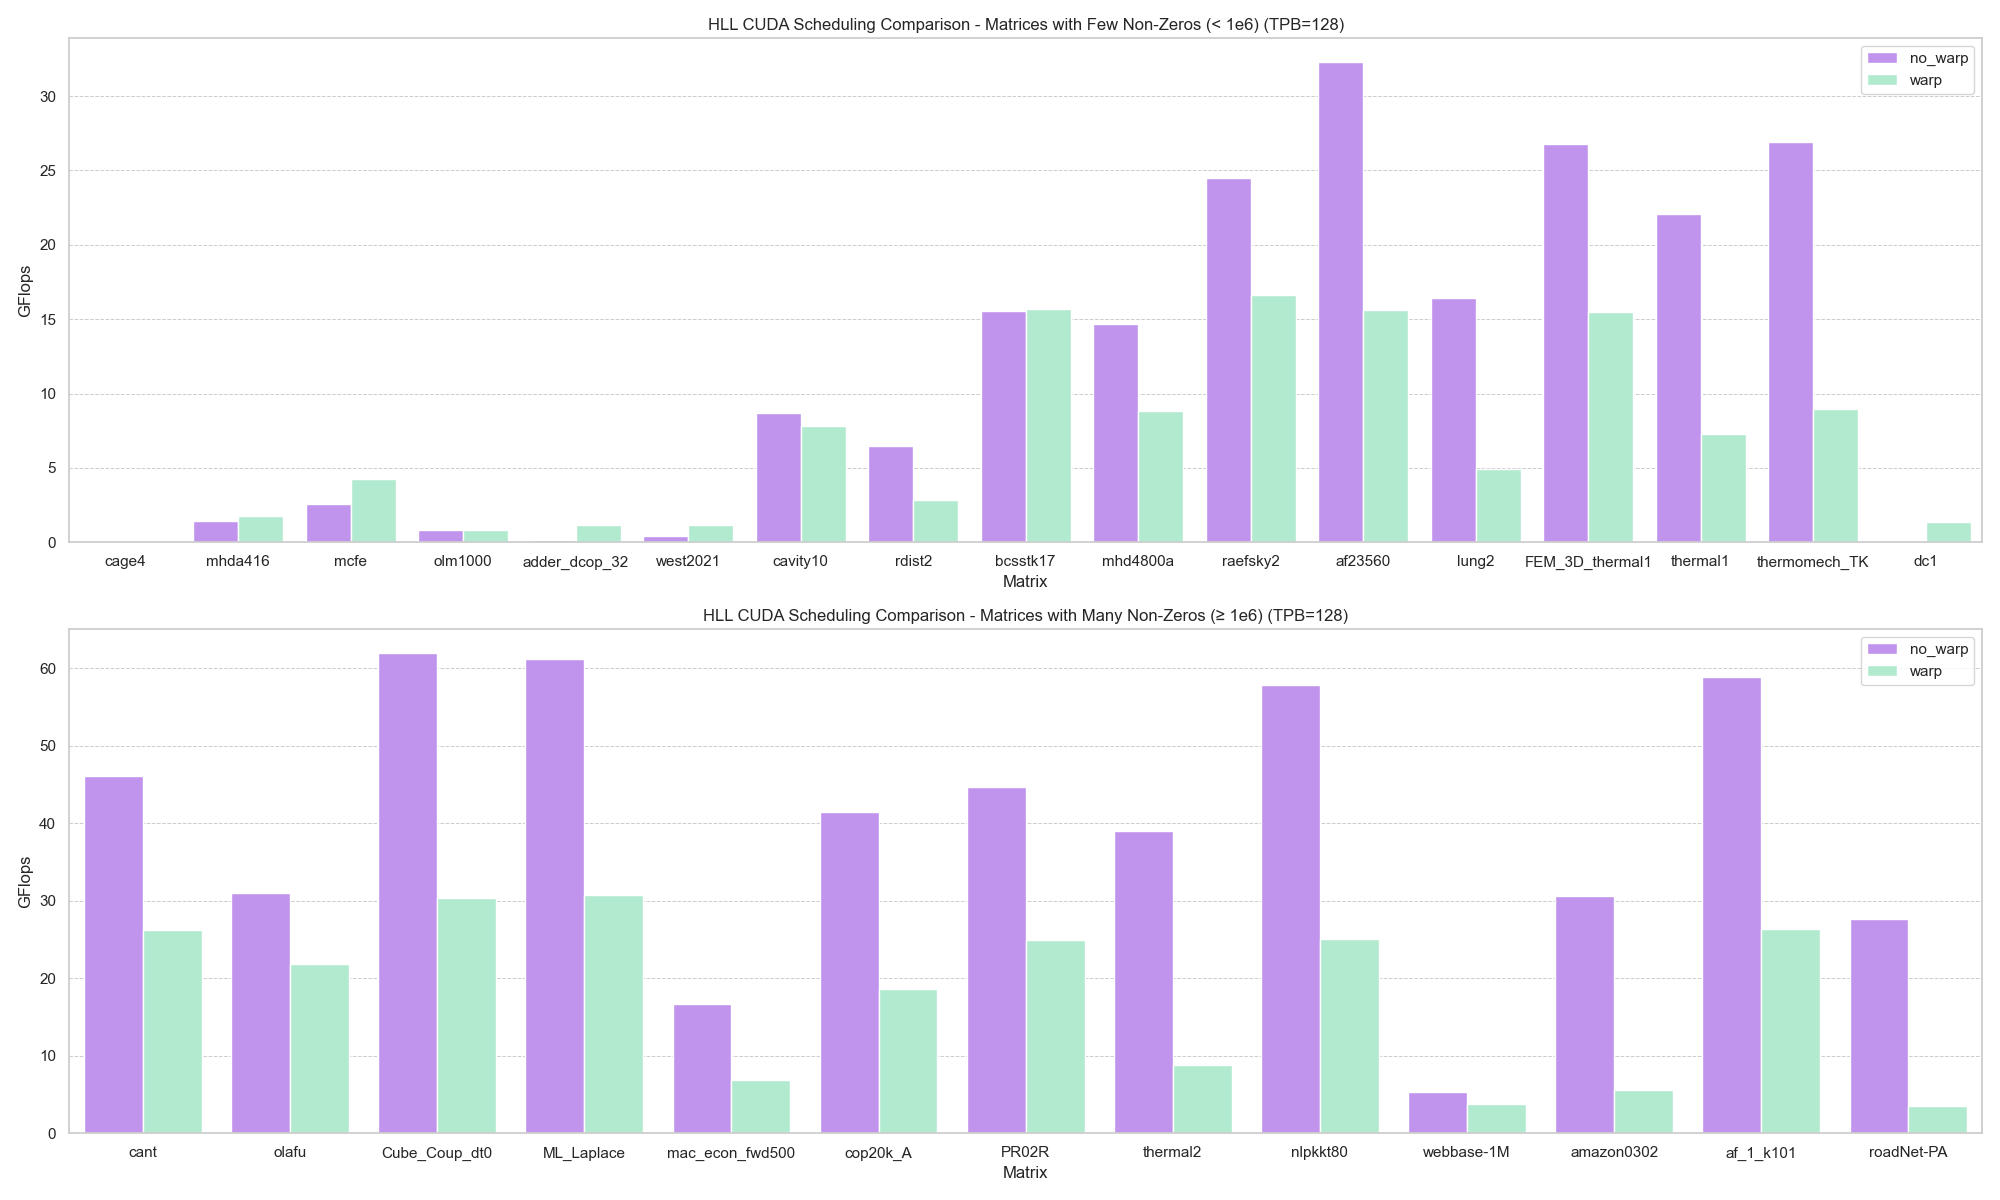
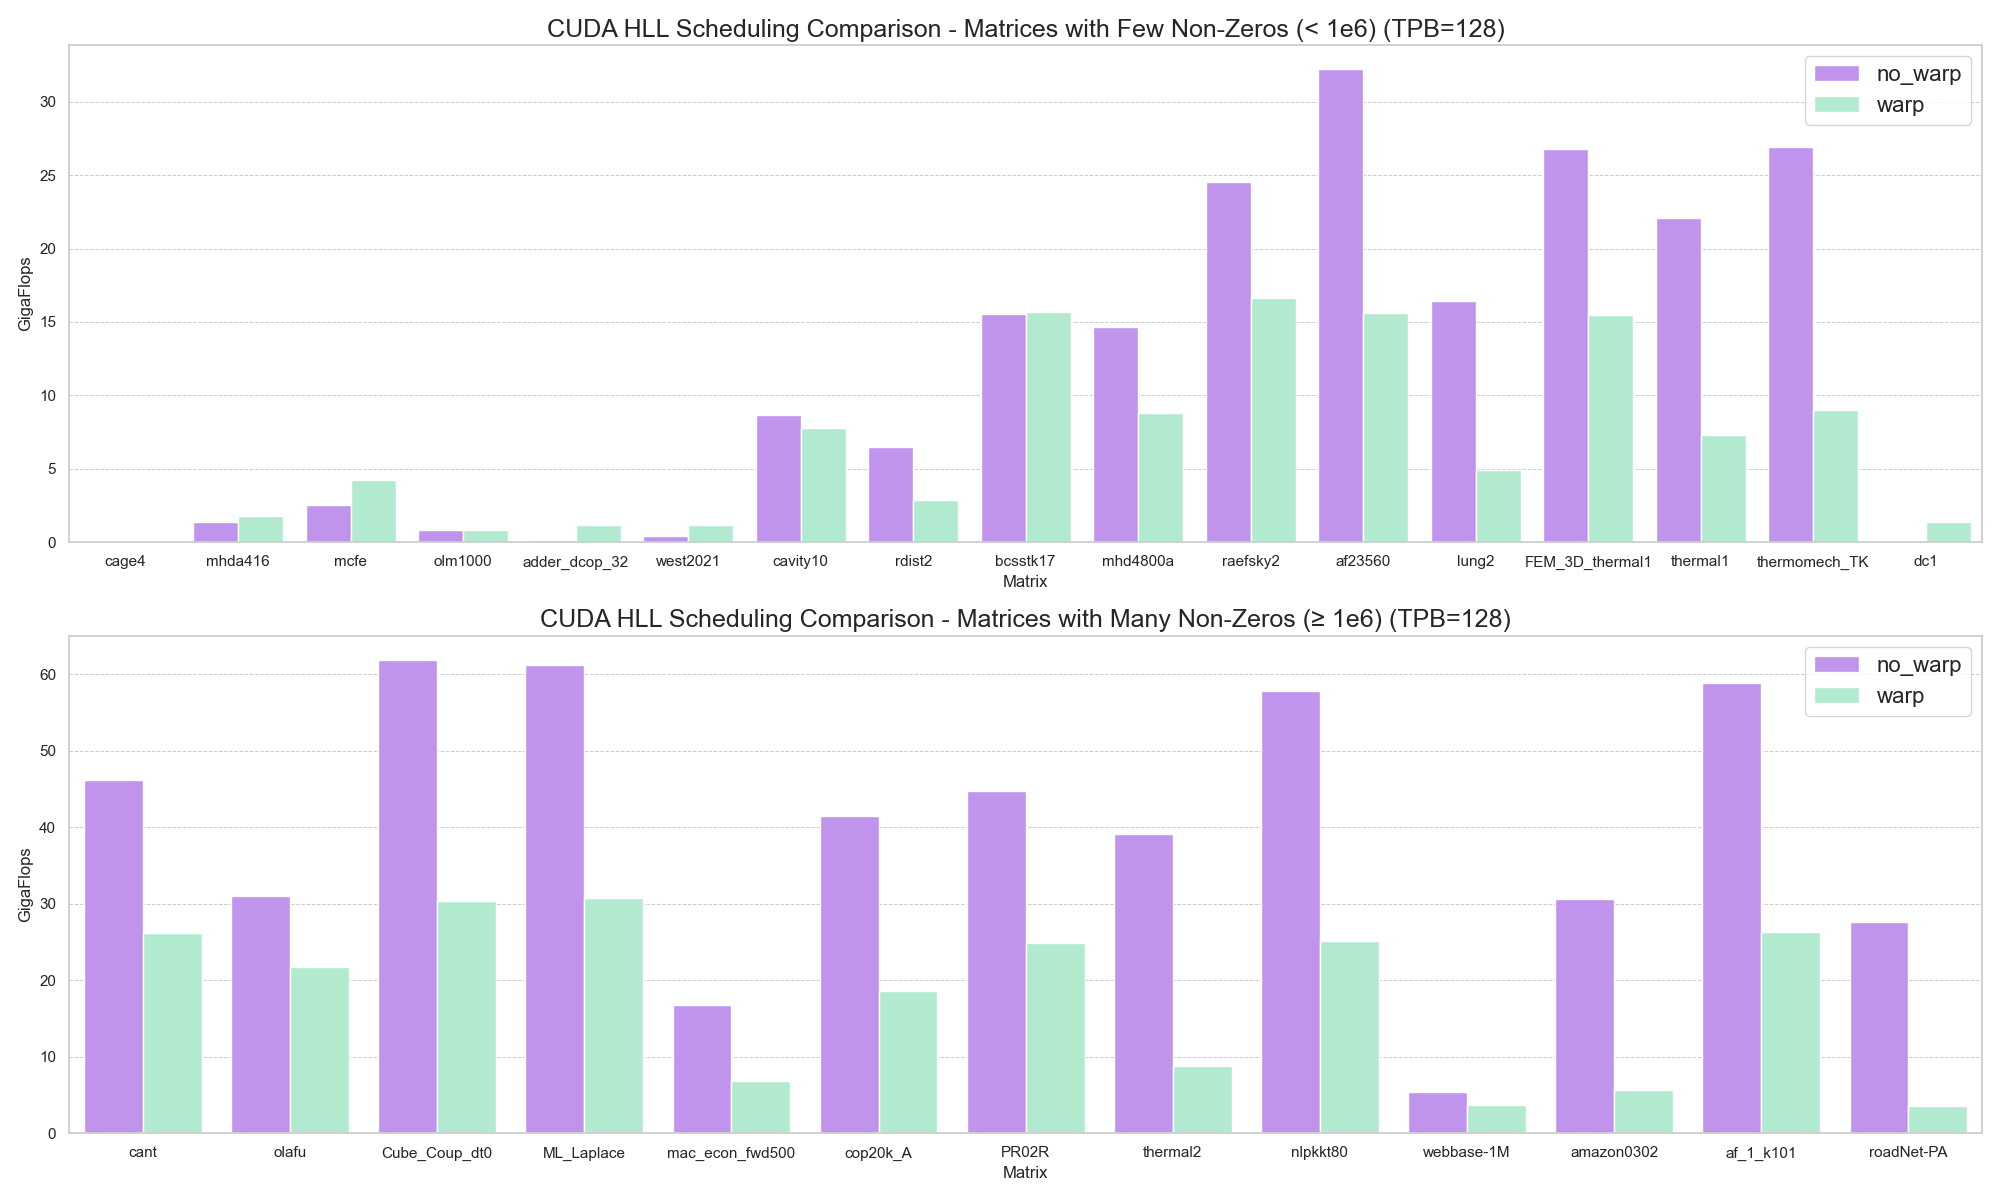
modifica funzioni plot grafici

diff --git a/results/openmp_threads_speedup_efficiency.py b/results/openmp_threads_speedup_efficiency.py
@@ -47,17 +47,17 @@ def plot_speedup(df_few, df_many, algo_type, save_path):
 
     # Plot for sparse matrices
     sns.lineplot(data=df_few, x='nThreads', y=y_col, hue='matrix', marker='o', ax=axs[0])
-    axs[0].set_title(f"{algo_type.upper()} Threads Speedup - Matrices with Few Non-Zeros (< 1e6)")
+    axs[0].set_title(f"OpenMP {algo_type.upper()} Threads Speedup - Matrices with Few Non-Zeros (< 1e6)", fontsize = 15)
     axs[0].set_xlabel("Number of Threads")
     axs[0].set_ylabel("Speedup")
-    axs[0].legend(loc='upper left', bbox_to_anchor=(1.05, 1))
+    axs[0].legend(loc='upper left', bbox_to_anchor=(1.05, 1), fontsize=13, title_fontsize=14)
 
     # Plot for dense matrices
     sns.lineplot(data=df_many, x='nThreads', y=y_col, hue='matrix', marker='o', ax=axs[1])
-    axs[1].set_title(f"{algo_type.upper()} Threads Speedup - Matrices with Many Non-Zeros (≥ 1e6)")
+    axs[1].set_title(f"OpenMP {algo_type.upper()} Threads Speedup - Matrices with Many Non-Zeros (≥ 1e6)", fontsize = 15)
     axs[1].set_xlabel("Number of Threads")
     axs[1].set_ylabel("Speedup")
-    axs[1].legend(loc='upper left', bbox_to_anchor=(1.05, 1))
+    axs[1].legend(loc='upper left', bbox_to_anchor=(1.05, 1), fontsize=13, title_fontsize=14)
 
     # Adjust layout and save to file
     plt.tight_layout()
@@ -78,18 +78,18 @@ def plot_efficiency(df_few, df_many, algo_type, save_path):
     # Plot for sparse matrices
     sns.lineplot(data=df_few, x='nThreads', y=eff_col, hue='matrix', marker='o', ax=axs[0])
     axs[0].axhline(1.0, color='gray', linestyle='--', linewidth=1)  # Reference line at ideal efficiency
-    axs[0].set_title(f"{algo_type.upper()} Threads Efficiency - Matrices with Few Non-Zeros (< 1e6)")
+    axs[0].set_title(f"OpenMP {algo_type.upper()} Threads Efficiency - Matrices with Few Non-Zeros (< 1e6)", fontsize = 15)
     axs[0].set_xlabel("Number of Threads")
     axs[0].set_ylabel("Efficiency")
-    axs[0].legend(loc='upper left', bbox_to_anchor=(1.05, 1))
+    axs[0].legend(loc='upper left', bbox_to_anchor=(1.05, 1), fontsize=13, title_fontsize=14)
 
     # Plot for dense matrices
     sns.lineplot(data=df_many, x='nThreads', y=eff_col, hue='matrix', marker='o', ax=axs[1])
     axs[1].axhline(1.0, color='gray', linestyle='--', linewidth=1)  # Reference line at ideal efficiency
-    axs[1].set_title(f"{algo_type.upper()} Threads Efficiency - Matrices with Many Non-Zeros (≥ 1e6)")
+    axs[1].set_title(f"OpenMP {algo_type.upper()} Threads Efficiency - Matrices with Many Non-Zeros (≥ 1e6)", fontsize = 15)
     axs[1].set_xlabel("Number of Threads")
     axs[1].set_ylabel("Efficiency")
-    axs[1].legend(loc='upper left', bbox_to_anchor=(1.05, 1))
+    axs[1].legend(loc='upper left', bbox_to_anchor=(1.05, 1), fontsize=13, title_fontsize=14)
 
     # Adjust layout and save to file
     plt.tight_layout()

diff --git a/results/cuda_csr_hll_gflops.py b/results/cuda_csr_hll_gflops.py
@@ -24,25 +24,27 @@ def plot_bar_comparison(save_path, csv_path, nz_threshold=1_000_000):
 
     # Primo grafico: pochi nz
     sns.barplot(ax=axes[0], data=df_few, x='matrix', y='avgGFlops', hue='type', palette=palette)
-    axes[0].set_title("Cuda AvgGFlops Comparison (CSR vs HLL) - Matrices with Few Non-Zeros (< 1e6)")
+    axes[0].set_title("Cuda CSR vs HLL GigaFlops Comparison - Matrices with Few Non-Zeros (< 1e6)", fontsize = 20)
     axes[0].grid(True, axis='y', linestyle='--', linewidth=0.7)
     axes[0].grid(False, axis='x')
     axes[0].set_xlabel("Matrix")
-    axes[0].set_ylabel("AvgGFlops")
-    axes[0].legend(loc='upper right')
+    axes[0].set_ylabel("GigaFlops")
+    axes[0].legend(loc='upper right', fontsize=16, title_fontsize=18)
     for label in axes[0].get_xticklabels():
         label.set_rotation(0)
+        label.set_fontsize(14)
 
     # Secondo grafico: molti nz
     sns.barplot(ax=axes[1], data=df_many, x='matrix', y='avgGFlops', hue='type', palette=palette)
-    axes[1].set_title("Cuda AvgGFlops Comparison (CSR vs HLL) - Matrices with Many Non-Zeros (≥ 1e6)")
+    axes[1].set_title("Cuda CSR vs HLL GigaFlops Comparison - Matrices with Many Non-Zeros (≥ 1e6)", fontsize = 20)
     axes[1].grid(True, axis='y', linestyle='--', linewidth=0.7)
     axes[1].grid(False, axis='x')
     axes[1].set_xlabel("Matrix")
-    axes[1].set_ylabel("AvgGFlops")
-    axes[1].legend(loc='upper right')
+    axes[1].set_ylabel("GigaFlops")
+    axes[1].legend(loc='upper right', fontsize=16, title_fontsize=18)
     for label in axes[1].get_xticklabels():
         label.set_rotation(0)
+        label.set_fontsize(14)
 
     plt.tight_layout()
 

diff --git a/results/openmp_csr_hll_gflops.py b/results/openmp_csr_hll_gflops.py
@@ -30,25 +30,27 @@ def plot_bar_gflops_comparison(df_few, df_many, save_path):
     }
     # Few nz
     sns.barplot(ax=axes[0], data=df_few, x='matrix', y='avgGFlops', hue='type', palette=custom_palette)
-    axes[0].set_title("OpenMP AvgGFlops Comparison (CSR vs HLL) - Matrices with Few Non-Zeros (< 1e6)")
+    axes[0].set_title("OpenMP CSR vs HLL GigaFlops Comparison - Matrices with Few Non-Zeros (< 1e6)", fontsize = 20)
     axes[0].set_xlabel("Matrix")
-    axes[0].set_ylabel("AvgGFlops")
-    axes[0].legend(loc='upper right')
+    axes[0].set_ylabel("GigaFlops")
+    axes[0].legend(loc='upper right', fontsize=16, title_fontsize=18)
     axes[0].grid(True, axis='y', linestyle='--', linewidth=0.7)
     axes[0].grid(False, axis='x')
     for label in axes[0].get_xticklabels():
         label.set_rotation(0)
+        label.set_fontsize(14)
 
     # Many nz
     sns.barplot(ax=axes[1], data=df_many, x='matrix', y='avgGFlops', hue='type', palette=custom_palette)
-    axes[1].set_title("OpenMP AvgGFlops Comparison (CSR vs HLL) - Matrices with Many Non-Zeros (≥ 1e6)")
+    axes[1].set_title("OpenMP CSR vs HLL GigaFlops Comparison - Matrices with Many Non-Zeros (≥ 1e6)", fontsize = 20)
     axes[1].set_xlabel("Matrix")
-    axes[1].set_ylabel("AvgGFlops")
-    axes[1].legend(loc='upper right')
+    axes[1].set_ylabel("GigaFlops")
+    axes[1].legend(loc='upper right', fontsize=16, title_fontsize=18)
     axes[1].grid(True, axis='y', linestyle='--', linewidth=0.7)
     axes[1].grid(False, axis='x')
     for label in axes[1].get_xticklabels():
         label.set_rotation(0)
+        label.set_fontsize(14)
 
     # Save plot
     plt.tight_layout()

diff --git a/results/openmp_csr_hll_speedup.py b/results/openmp_csr_hll_speedup.py
@@ -35,23 +35,25 @@ def plot_speedup_comparison(df, nz_threshold, save_path):
 
     # Plot for matrices with few nz
     sns.barplot(ax=axes[0], data=df_few, x='matrix', y='speedup', hue='type', palette=custom_palette)
-    axes[0].set_title("OpenMP Speedup Comparison (CSR vs HLL) - Matrices with Few Non-Zeros (< 1e6)")
+    axes[0].set_title("OpenMP CSR vs HLL Speedup Comparison - Matrices with Few Non-Zeros (< 1e6)", fontsize = 20)
     axes[0].set_xlabel("Matrix")
     axes[0].set_ylabel("Speedup")
-    axes[0].legend(loc='upper right')
+    axes[0].legend(loc='upper right', fontsize=16, title_fontsize=18)
     axes[0].grid(True, axis='y', linestyle='--', linewidth=0.7)  # Add horizontal grid lines
     for label in axes[0].get_xticklabels():
         label.set_rotation(0)
+        label.set_fontsize(14)
 
     # Plot for matrices with many nz
     sns.barplot(ax=axes[1], data=df_many, x='matrix', y='speedup', hue='type', palette=custom_palette)
-    axes[1].set_title("OpenMP Speedup Comparison (CSR vs HLL) - Matrices with Many Non-Zeros (≥ 1e6)")
+    axes[1].set_title("OpenMP CSR vs HLL Speedup Comparison - Matrices with Many Non-Zeros (≥ 1e6)", fontsize = 20)
     axes[1].set_xlabel("Matrix")
     axes[1].set_ylabel("Speedup")
-    axes[1].legend(loc='upper right')
+    axes[1].legend(loc='upper right', fontsize=16, title_fontsize=18)
     axes[1].grid(True, axis='y', linestyle='--', linewidth=0.7)  # Add horizontal grid lines
     for label in axes[1].get_xticklabels():
         label.set_rotation(0)
+        label.set_fontsize(14)
 
     # Adjust layout and save the plot
     plt.tight_layout()

diff --git a/results/openmp_threads_gflops.py b/results/openmp_threads_gflops.py
@@ -31,20 +31,20 @@ def plot_performance(df_few, df_many, algo_type, save_path):
     # Top subplot: matrices with few non-zeros
     if not data_few.empty:
         sns.lineplot(data=data_few, x='nThreads', y='avgGFlops', hue='matrix', marker='o', ax=axs[0])
-        axs[0].set_title(f"{algo_type.upper()} Threads Performance - Matrices with Few Non-Zeros (< 1e6)")
+        axs[0].set_title(f"OpenMP {algo_type.upper()} Threads GigaFlops - Matrices with Few Non-Zeros (< 1e6)", fontsize = 15)
         axs[0].set_xlabel("Number of Threads")
-        axs[0].set_ylabel("GFlops")
-        axs[0].legend(loc='upper left', bbox_to_anchor=(1.05, 1))
+        axs[0].set_ylabel("GigaFlops")
+        axs[0].legend(loc='upper left', bbox_to_anchor=(1.05, 1), fontsize=13, title_fontsize=14)
     else:
         axs[0].set_visible(False)
 
     # Bottom subplot: matrices with many non-zeros
     if not data_many.empty:
         sns.lineplot(data=data_many, x='nThreads', y='avgGFlops', hue='matrix', marker='o', ax=axs[1])
-        axs[1].set_title(f"{algo_type.upper()} Threads Performance - Matrices with Many Non-Zeros (≥ 1e6)")
+        axs[1].set_title(f"OpenMP {algo_type.upper()} Threads GigaFlops - Matrices with Many Non-Zeros (≥ 1e6)", fontsize = 15)
         axs[1].set_xlabel("Number of Threads")
-        axs[1].set_ylabel("GFlops")
-        axs[1].legend(loc='upper left', bbox_to_anchor=(1.05, 1))
+        axs[1].set_ylabel("GigaFlops")
+        axs[1].legend(loc='upper left', bbox_to_anchor=(1.05, 1), fontsize=13, title_fontsize=14)
     else:
         axs[1].set_visible(False)
 

diff --git a/results/cuda_csr_hll_speedup.py b/results/cuda_csr_hll_speedup.py
@@ -28,25 +28,27 @@ def plot_speedup(save_path, filename):
 
     # Few nz
     sns.barplot(data=data_few, x='matrix', y='speedup', hue='type', ax=axes[0], palette=palette)
-    axes[0].set_title("Cuda Speedup Comparison (CSR vs HLL) - Matrices with Few Non-Zeros (< 1e6)")
+    axes[0].set_title("Cuda CSR vs HLL Speedup Comparison - Matrices with Few Non-Zeros (< 1e6)", fontsize = 20)
     axes[0].grid(True, axis='y', linestyle='--', linewidth=0.7)
     axes[0].grid(False, axis='x')
     axes[0].set_xlabel("Matrix")
     axes[0].set_ylabel("Speedup")
-    axes[0].legend(loc='upper right')
+    axes[0].legend(loc='upper right', fontsize=16, title_fontsize=18)
     for label in axes[0].get_xticklabels():
         label.set_rotation(0)
+        label.set_fontsize(14)
 
     # Many nz
     sns.barplot(data=data_many, x='matrix', y='speedup', hue='type', ax=axes[1], palette=palette)
-    axes[1].set_title("Cuda Speedup Comparison (CSR vs HLL) - Matrices with Many Non-Zeros (≥ 1e6)")
+    axes[1].set_title("Cuda CSR vs HLL Speedup Comparison - Matrices with Many Non-Zeros (≥ 1e6)", fontsize = 20)
     axes[1].grid(True, axis='y', linestyle='--', linewidth=0.7)
     axes[1].grid(False, axis='x')
     axes[1].set_xlabel("Matrix")
     axes[1].set_ylabel("Speedup")
-    axes[1].legend(loc='upper right')
+    axes[1].legend(loc='upper left', fontsize=16, title_fontsize=18)
     for label in axes[1].get_xticklabels():
         label.set_rotation(0)
+        label.set_fontsize(14)
 
     # Layout e salvataggio
     plt.tight_layout()

diff --git a/results/openmp_scheduling_totaltime.py b/results/openmp_scheduling_totaltime.py
@@ -44,16 +44,16 @@ def plot_time_comparison(type_filter, output_filename):
         sns.barplot(data=melted, x='matrix', y='Time (ms)', hue='method', palette=palette, ax=axs[i])
         
         axs[i].set_yscale('log')
-        axs[i].set_title(f"{type_filter} OpenMP Scheduling Comparison - {titles[i]}")
+        axs[i].set_title(f"OpenMP {type_filter} Scheduling Comparison - {titles[i]}", fontsize= 18)
         axs[i].grid(True, axis='y', linestyle='--', linewidth=0.7)
         axs[i].grid(False, axis='x')
         axs[i].set_ylabel("Execution Time (ms)")
         axs[i].set_xlabel("Matrix")
-        axs[i].legend(loc='upper right')
+        axs[i].legend(loc='upper right', fontsize=16, title_fontsize=18)
         for label in axs[i].get_xticklabels():
             label.set_rotation(0)
 
-    axs[0].legend(loc='upper left')
+    axs[0].legend(loc='upper left', fontsize=16, title_fontsize=18)
     plt.tight_layout()
     os.makedirs(os.path.dirname(output_filename), exist_ok=True)
     plt.savefig(output_filename)

diff --git a/results/cuda_scheduling.py b/results/cuda_scheduling.py
@@ -51,12 +51,12 @@ def plot_combined(type_filter, output_filename, threads_per_block=None):
 
         melted = pd.melt(merged, id_vars='matrix', value_vars=['no_warp', 'warp'], var_name='method', value_name='GFlops')
         sns.barplot(data=melted, x='matrix', y='GFlops', hue='method', palette=palette, ax=axs[i])
-        axs[i].set_title(f"{type_filter} CUDA Scheduling Comparison - {titles[i]} (TPB={threads_per_block})")
+        axs[i].set_title(f"CUDA {type_filter} Scheduling Comparison - {titles[i]} (TPB={threads_per_block})", fontsize=18)
         axs[i].grid(True, axis='y', linestyle='--', linewidth=0.7)
         axs[i].grid(False, axis='x')
-        axs[i].set_ylabel("GFlops")
+        axs[i].set_ylabel("GigaFlops")
         axs[i].set_xlabel("Matrix")
-        axs[i].legend(loc='upper right')
+        axs[i].legend(loc='upper right', fontsize=16, title_fontsize=18)
         axs[i].tick_params(axis='x', rotation=0)
 
     plt.tight_layout()

diff --git a/results/openmp_scheduling.py b/results/openmp_scheduling.py
@@ -48,12 +48,12 @@ def plot_sched_comparison(type_filter, output_filename):
         # Converte in formato "long" per seaborn
         melted = pd.melt(merged, id_vars='matrix', value_vars=['guided', 'bound'], var_name='method', value_name='GFlops')
         sns.barplot(data=melted, x='matrix', y='GFlops', hue='method', palette=palette, ax=axs[i])
-        axs[i].set_title(f"{type_filter} OpenMP Scheduling Comparison - {titles[i]}")
+        axs[i].set_title(f"OpenMP {type_filter} Scheduling Comparison - {titles[i]}", fontsize=18)
         axs[i].grid(True, axis='y', linestyle='--', linewidth=0.7)
         axs[i].grid(False, axis='x')
-        axs[i].set_ylabel("GFlops")
+        axs[i].set_ylabel("GigaFlops")
         axs[i].set_xlabel("Matrix")
-        axs[i].legend(loc='upper right')
+        axs[i].legend(loc='upper right', fontsize=16, title_fontsize=18)
         for label in axs[i].get_xticklabels():
             label.set_rotation(0)
 

diff --git a/results/cuda_threads_per_block.py b/results/cuda_threads_per_block.py
@@ -67,10 +67,10 @@ def plot_single_speedup(df, algo_col, mode_val, save_path, algo_label):
             ax=ax
         )
         ax.set_xticks([128, 256, 512, 1024])
-        ax.set_title(f"Speedup {algo_label} — {subtitle}")
+        ax.set_title(f"CUDA {algo_label} Threads per Block Speedup — {subtitle}", fontsize=16)
         ax.set_xlabel("Threads Per Block")
         ax.set_ylabel("Speedup")
-        ax.legend(loc='upper left', bbox_to_anchor=(1.05, 1))
+        ax.legend(loc='upper left', bbox_to_anchor=(1.05, 1), fontsize=14, title_fontsize=16)
         ax.grid(True)
 
     # Plot both subsets: few and many non-zeros
